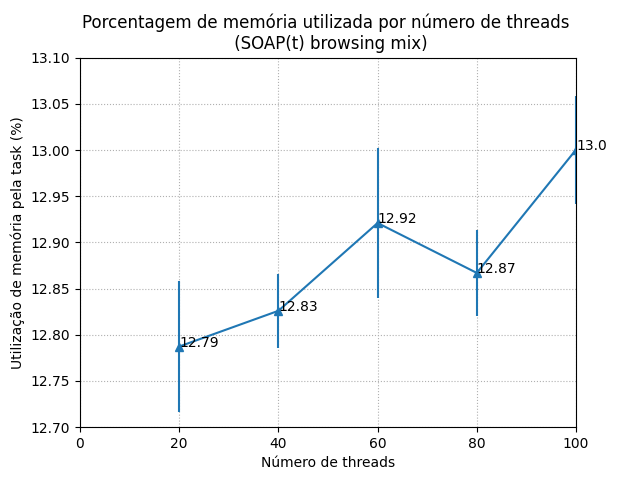
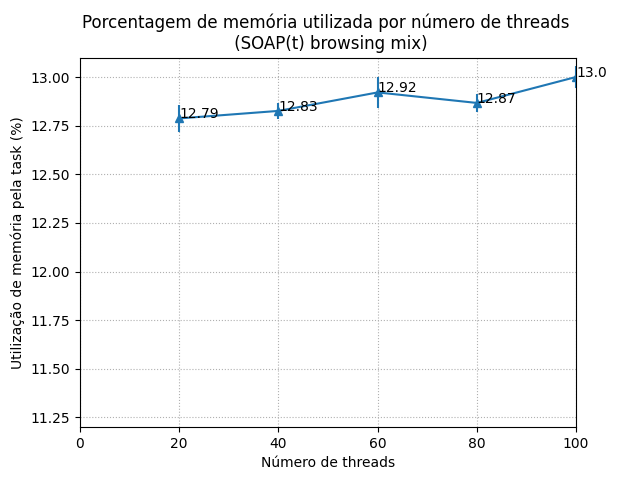
update graphs

diff --git a/translator.py b/translator.py
@@ -17,7 +17,7 @@ def generateGraphic(metric, *args): # metric can be CPU, Mem, Net, Disk
         std = []
         for threadNo in threads:
                 # ---- PROCESSING EXP. REPETITION
-                filePath = "REST(t)/" + str(threadNo) + "/" + metric
+                filePath = "SOAP(t)/" + str(threadNo) + "/" + metric
                 repetitionNo = 15
                 print("Processing samples for " + str(threadNo) + " threads...")
                 values = []
@@ -30,7 +30,7 @@ def generateGraphic(metric, *args): # metric can be CPU, Mem, Net, Disk
                 mean.append(np.mean(values))
                 std.append(np.std(values))
         if(metric == 'CPU'):
-                plt.title("Porcentagem de utilização do CPU por número de threads \n (REST(t) browsing mix)")
+                plt.title("Porcentagem de utilização do CPU por número de threads \n (SOAP(t) browsing mix)")
                 plt.ylabel("Utilização do CPU pela task (%)")
                 plt.ylim(0, 100)
         elif(metric == 'disk'):
@@ -38,11 +38,11 @@ def generateGraphic(metric, *args): # metric can be CPU, Mem, Net, Disk
                 plt.ylabel("Utilização do tempo (%)")
                 plt.ylim(0, 20)
         elif(metric == 'mem'):
-                plt.title("Porcentagem de memória utilizada por número de threads \n (REST(t) browsing mix)")
+                plt.title("Porcentagem de memória utilizada por número de threads \n (SOAP(t) browsing mix)")
                 plt.ylabel("Utilização de memória pela task (%)")
-                plt.ylim(11.1, 11.9)
+                plt.ylim(11.2, 13.1)
         elif(metric == 'net'):
-                plt.title("Porcentagem de utilização da interface de internet por número de threads \n (REST(t) browsing mix)")
+                plt.title("Porcentagem de utilização da interface de internet por número de threads \n (SOAP(t) browsing mix)")
                 plt.ylabel("Utilização (%)")
                 plt.ylim(0, 0.07)
         plt.xlabel("Número de threads")
